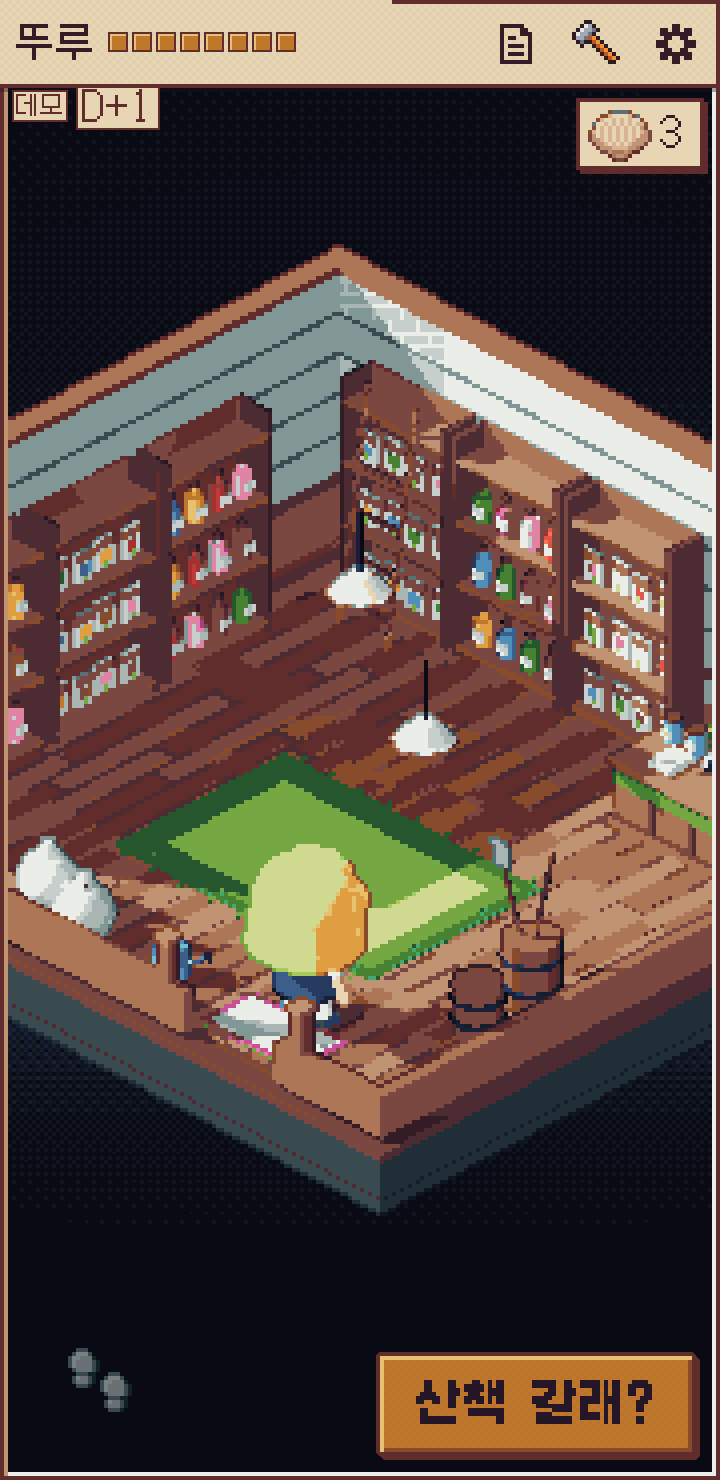
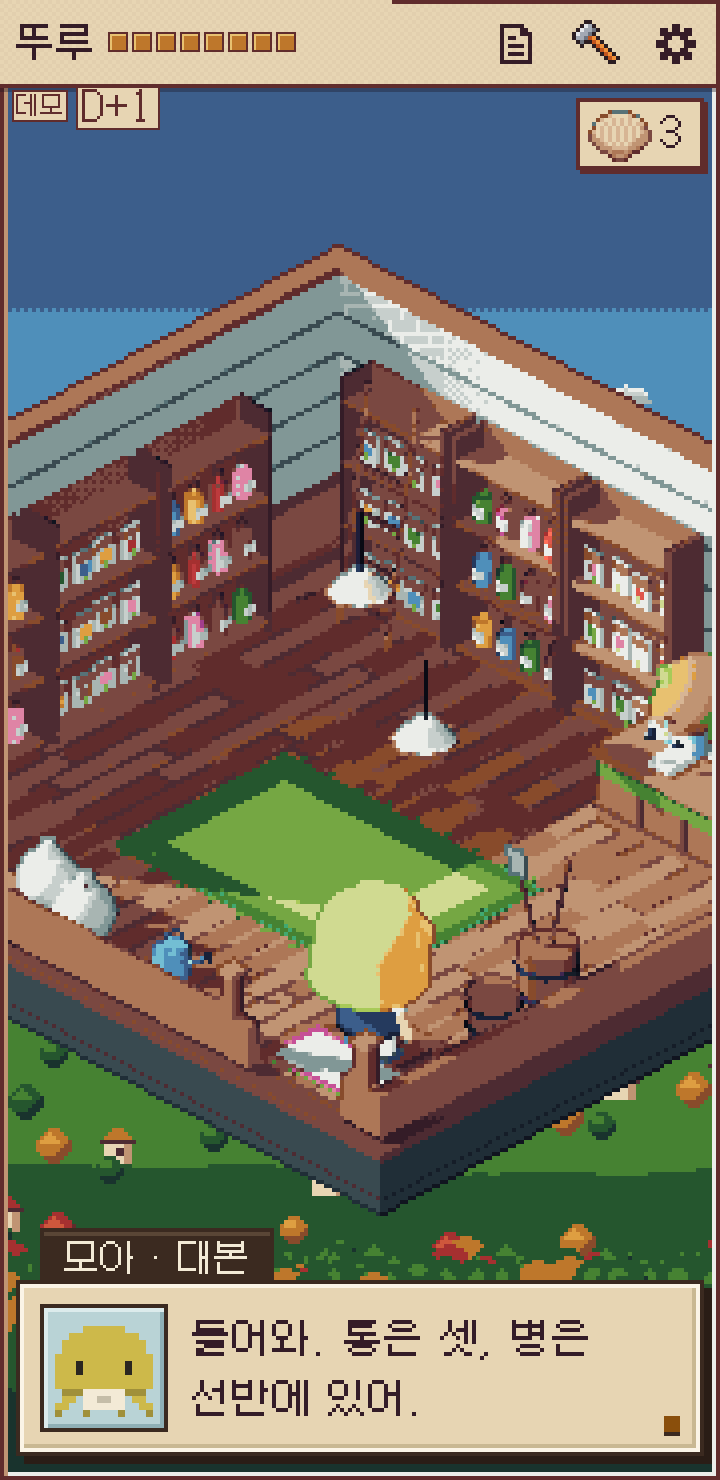
7차 V: 카페 · 잡화점 문어를 문 쪽으로 (들어서면 360 화면에 든다), 잡화점 문 · 계산대 · 통 자리 조정
Claude-Session: https://claude.ai/code/session_01Tq2y4RN5FrCBChDE4gtErh

diff --git a/js/village.js b/js/village.js
@@ -181,26 +181,26 @@ var VILLAGE = (function () {
       boxes: [[-2.95, -2.0, -1.45, -1.5], [-2.95, -0.95, -2.55, 0.35], [2.0, 0.25, 2.9, 0.95], [-1.5, 2.2, -0.1, 2.55], [-2.95, 0.6, -2.6, 1.2], [-2.95, 1.55, -1.75, 2.55]],
       circles: [[-1.2, -1.95, 0.4], [-0.15, -1.95, 0.4], [0.9, -1.95, 0.4], [1.95, -1.95, 0.4], [2.7, -2.3, 0.22], [2.7, -0.6, 0.18], [2.75, 1.4, 0.15]] },   /* … 화분 · 모자걸이 · 스탠드 등 */
     cafe: { name: '카페', half: [3.2, 2.6], wallH: 2.2, door: [0.5, 2.0], face: Math.PI, lights: [[0.9, 1.9, -0.9], [-1.2, 1.9, 0.8]],
-      slots: { keeper: [1.3, 0.3, -2.25, 0], menu: [-1.2, 1.35, -2.54, 0], pickup: [0.55, 0.58, -1.75, 0], counter: [1.3, 0.56, -1.75, 0], table: [-1.6, 0.46, 0.3, 0], seat: [-0.88, 0.3, 0.3, -HP], aisle: [-0.88, 0, 0.95, Math.PI],
+      slots: { keeper: [0.2, 0.3, -2.25, 0], menu: [-1.2, 1.35, -2.54, 0],   /* 카페 문어는 내주는 자리 바로 뒤 (문에서 화면에 든다) */ pickup: [0.55, 0.58, -1.75, 0], counter: [1.3, 0.56, -1.75, 0], table: [-1.6, 0.46, 0.3, 0], seat: [-0.88, 0.3, 0.3, -HP], aisle: [-0.88, 0, 0.95, Math.PI],
         table1: [1.9, 0.46, 0.3, 0], table2: [2.45, 0.46, 1.7, 0], nap: [2.45, 0.3, 1.05, 0], turntable: [-2.82, 0.8, 1.55, HP], lp: [-2.82, 0.45, 0.6, HP], exit: [0.5, 0, 2.45, 0] },
       spots: [
         { key: 'cafeMenu', btn: 'btn-cafe-menu', label: '차림판', x: -1.2, y: 1.35, z: -2.5, r: 0.55, stand: [-1.2, -1.4] },
         { key: 'cafeCounter', btn: 'btn-cafe-counter', label: '카페 주문', x: 0.55, y: 0.75, z: -1.75, r: 0.4, stand: [0.55, -1.05] },
         { key: 'cafeSeat', btn: 'btn-cafe-seat', label: '카페 자리', x: -0.88, y: 0.45, z: 0.3, r: 0.4, stand: [-0.88, 0.95] },
         { key: 'cafeLp', btn: 'btn-cafe-lp', label: '레코드', x: -2.82, y: 0.85, z: 1.1, r: 0.55, stand: [-2.0, 1.1] },
-        { key: 'roomKeeper', btn: 'btn-npc-cafe', label: '가게 문어', x: 1.6, y: 1.0, z: -2.25, r: 0.4, stand: [1.6, -1.05] },
+        { key: 'roomKeeper', btn: 'btn-npc-cafe', label: '가게 문어', x: 0.2, y: 1.0, z: -2.25, r: 0.4, stand: [-0.15, -1.1] },
         { key: 'roomExit', btn: 'btn-room-exit', label: '밖으로', x: 0.5, y: 0.5, z: 2.5, r: 0.5, stand: [0.5, 2.0] }],
       boxes: [[-0.2, -2.0, 3.15, -1.5], [-3.15, -0.25, -2.6, 2.2]],
       circles: [[-1.6, 0.3, 0.36], [1.9, 0.3, 0.36], [2.45, 1.7, 0.36], [-0.88, 0.3, 0.16], [-2.2, 0.3, 0.16], [1.9, -0.4, 0.16], [2.62, 0.3, 0.16], [2.45, 1.05, 0.16], [-2.85, -2.25, 0.25], [-2.85, -0.05, 0.2]] },
-    goods: { name: '잡화점', half: [2.6, 2.4], wallH: 2.2, door: [1.3, 1.8], face: Math.PI, lights: [[-0.4, 1.9, -0.4], [1.2, 1.9, 0.6]],
-      slots: { keeper: [1.75, 0.3, -2.05, 0], counter: [1.75, 0.56, -1.55, 0], scale: [2.2, 0.58, -1.55, 0], exit: [1.3, 0, 2.25, 0],
+    goods: { name: '잡화점', half: [2.6, 2.4], wallH: 2.2, door: [1.9, 1.8],   /* 문은 앞벽 오른쪽 (들어서면 계산대의 문어가 화면에 든다) */ face: Math.PI, lights: [[-0.4, 1.9, -0.4], [1.2, 1.9, 0.6]],
+      slots: { keeper: [1.2, 0.3, -2.05, 0], counter: [1.75, 0.56, -1.55, 0], scale: [2.2, 0.58, -1.55, 0], exit: [1.9, 0, 2.25, 0],
         shelf0: [-1.75, 0, -2.2, 0], shelf1: [-0.7, 0, -2.2, 0], shelf2: [0.35, 0, -2.2, 0], shelf3: [-2.4, 0, -0.95, HP], shelf4: [-2.4, 0, 0.1, HP], shelf5: [-2.4, 0, 1.15, HP] },
       spots: shelfSpots().concat([
-        { key: 'roomCounter', btn: 'btn-room-counter', label: '계산대', x: 2.2, y: 0.7, z: -1.55, r: 0.4, stand: [2.0, -0.85] },
-        { key: 'roomKeeper', btn: 'btn-npc-goods', label: '가게 문어', x: 1.5, y: 1.0, z: -2.05, r: 0.4, stand: [1.4, -0.85] },
-        { key: 'roomExit', btn: 'btn-room-exit', label: '밖으로', x: 1.3, y: 0.5, z: 2.3, r: 0.5, stand: [1.3, 1.8] }]),
-      boxes: [[1.05, -1.8, 2.55, -1.3], [-2.25, -2.35, 0.85, -1.95], [-2.55, -1.45, -2.15, 1.65]],
-      circles: [[2.2, 0.6, 0.24], [2.25, 1.15, 0.2], [-0.9, 2.0, 0.24], [-0.45, 2.1, 0.24], [0.3, 2.05, 0.15], [-2.25, 2.05, 0.2]] },   /* 통 둘 · 자루 둘 · 물뿌리개 · 화분 */
+        { key: 'roomCounter', btn: 'btn-room-counter', label: '계산대', x: 2.2, y: 0.7, z: -1.55, r: 0.4, stand: [1.6, -0.85] },
+        { key: 'roomKeeper', btn: 'btn-npc-goods', label: '가게 문어', x: 1.2, y: 1.0, z: -2.05, r: 0.4, stand: [1.0, -0.85] },
+        { key: 'roomExit', btn: 'btn-room-exit', label: '밖으로', x: 1.9, y: 0.5, z: 2.3, r: 0.5, stand: [1.9, 1.8] }]),
+      boxes: [[0.9, -1.8, 2.55, -1.3], [-2.25, -2.35, 0.85, -1.95], [-2.55, -1.45, -2.15, 1.65]],
+      circles: [[2.35, 0.6, 0.24], [2.4, 1.15, 0.2], [-0.9, 2.0, 0.24], [-0.45, 2.1, 0.24], [0.3, 2.05, 0.15], [-2.25, 2.05, 0.2]] },   /* 통 둘 · 자루 둘 · 물뿌리개 · 화분 */
     /* 공연장 (주인 11-22 00:05: "카페나 콘테스트도 아예 맵을 따로") — 뒷벽 앞의 높인 무대 (0.3 m) 와 방 안으로 뻗은 길 (캣워크), 막, 조명 둘, 길을 보는 심사석 셋, 구경 벤치 둘, 무대 뒤 구석 (옷걸이 · 거울), 벽의 결과판 */
     hall: { name: '공연장', half: [3.5, 3.0], wallH: 2.4, door: [2.6, 2.4], face: Math.PI, lights: [[0, 2.1, -1.2], [1.4, 2.1, 1.9]],   /* 둘째 등은 길 위가 아니라 문 쪽 (길 위에 선 캐릭터 머리를 가렸다) */
       stage: { x0: -2.3, x1: 2.3, z0: -3.0, z1: -1.55, y: 0.3 }, walk: { x0: -0.5, x1: 0.5, z0: -1.55, z1: 0.75, y: 0.3 }, steps: { z0: 0.75, z1: 1.2 },

diff --git a/js/scene3d.js b/js/scene3d.js
@@ -7262,7 +7262,7 @@ var SCENE3D = (function () {
             else { Yc(0.065, 0.2, a, y + 0.12, 0.02, c2); Yc(0.03, 0.06, a, y + 0.25, 0.02, c2); Yc(0.036, 0.03, a, y + 0.29, 0.02, VC.woodD); B(0.09, 0.07, 0.02, a, y + 0.11, 0.08, VC.cream); } }
         });
       }
-      vilCounter(L, 1.05, 2.55, -1.55, VC.woodL, VC.moss);
+      vilCounter(L, 0.9, 2.55, -1.55, VC.woodL, VC.moss);
       L.push({ g: box(0.5, 0.3, 0.5), m: M(S.keeper[0], 0.15, S.keeper[2]), c: VC.woodA }, { g: box(0.52, 0.04, 0.52), m: M(S.keeper[0], 0.24, S.keeper[2]), c: VC.woodD });
       /* 접시저울: 받침 · 기둥 · 가로대 · 줄과 접시 둘 (한쪽에 추, 한쪽에 씨앗 더미) · 종이 봉투 묶음 */
       var sx = S.scale[0], sz = S.scale[2];
@@ -7270,8 +7270,8 @@ var SCENE3D = (function () {
       [[-0.2, -0.016, VC.slateD], [0.2, 0.016, VC.woodA]].forEach(function (q2, n) { L.push({ g: box(0.01, 0.16, 0.01), m: M(sx + q2[0], 0.81 + q2[1], sz), c: VC.cream }, { g: new T.CylinderGeometry(0.09, 0.06, 0.03, 8), m: M(sx + q2[0], 0.72 + q2[1], sz), c: VC.yellow }, n ? { g: new T.SphereGeometry(0.05, 6, 4), m: M(sx + q2[0], 0.75 + q2[1], sz, 0, 0, 0, 1, 0.6, 1), c: q2[2] } : { g: new T.CylinderGeometry(0.03, 0.04, 0.06, 6), m: M(sx + q2[0], 0.765 + q2[1], sz), c: q2[2] }); });
       for (i = 0; i < 4; i++) L.push({ g: box(0.2, 0.012, 0.26), m: M(1.4, 0.55 + i * 0.012, -1.5), c: i % 2 ? VC.paper : VC.cream });
       /* 통 둘 (테 두른 나무통 · 하나엔 삽 자루) · 자루 둘 (입을 묶은 포대) · 물뿌리개 */
-      [[2.2, 0.6], [2.25, 1.15]].forEach(function (b, n) { L.push({ g: new T.CylinderGeometry(0.22 - n * 0.03, 0.19 - n * 0.03, 0.5 - n * 0.08, 9), m: M(b[0], 0.25 - n * 0.04, b[1]), c: n ? VC.woodA : VC.woodB }, { g: new T.CylinderGeometry(0.225 - n * 0.03, 0.225 - n * 0.03, 0.04, 9), m: M(b[0], 0.14, b[1]), c: VC.iron }, { g: new T.CylinderGeometry(0.225 - n * 0.03, 0.225 - n * 0.03, 0.04, 9), m: M(b[0], 0.36 - n * 0.06, b[1]), c: VC.iron }); });
-      seg(L, [2.2, 0.4, 0.6], [2.32, 1.15, 0.52], 0.02, VC.woodL, 5); seg(L, [2.16, 0.4, 0.64], [2.05, 1.05, 0.72], 0.02, VC.woodL, 5); L.push({ g: box(0.16, 0.2, 0.03), m: M(2.04, 1.12, 0.73, 0, 0, 0.16), c: VC.slateA });
+      [[2.35, 0.6], [2.4, 1.15]].forEach(function (b, n) { L.push({ g: new T.CylinderGeometry(0.22 - n * 0.03, 0.19 - n * 0.03, 0.5 - n * 0.08, 9), m: M(b[0], 0.25 - n * 0.04, b[1]), c: n ? VC.woodA : VC.woodB }, { g: new T.CylinderGeometry(0.225 - n * 0.03, 0.225 - n * 0.03, 0.04, 9), m: M(b[0], 0.14, b[1]), c: VC.iron }, { g: new T.CylinderGeometry(0.225 - n * 0.03, 0.225 - n * 0.03, 0.04, 9), m: M(b[0], 0.36 - n * 0.06, b[1]), c: VC.iron }); });
+      seg(L, [2.35, 0.4, 0.6], [2.47, 1.15, 0.52], 0.02, VC.woodL, 5); seg(L, [2.31, 0.4, 0.64], [2.2, 1.05, 0.72], 0.02, VC.woodL, 5); L.push({ g: box(0.16, 0.2, 0.03), m: M(2.19, 1.12, 0.73, 0, 0, 0.16), c: VC.slateA });
       [[-0.9, 2.0, VC.paper], [-0.45, 2.1, VC.wallA]].forEach(function (b) { L.push({ g: new T.SphereGeometry(0.24, 8, 6), m: M(b[0], 0.2, b[1], 0, 0, 0, 1, 0.9, 0.85), c: b[2] }, { g: new T.CylinderGeometry(0.05, 0.1, 0.12, 6), m: M(b[0], 0.44, b[1]), c: b[2] }, { g: new T.TorusGeometry(0.06, 0.015, 4, 8), m: M(b[0], 0.42, b[1], Math.PI / 2, 0, 0), c: VC.woodD }); });
       L.push({ g: new T.CylinderGeometry(0.12, 0.13, 0.22, 8), m: M(0.3, 0.11, 2.05), c: VC.blueL }, { g: new T.TorusGeometry(0.09, 0.015, 4, 8, Math.PI), m: M(0.3, 0.24, 2.05, 0, Math.PI / 2, 0), c: VC.blueL }); seg(L, [0.42, 0.12, 2.05], [0.62, 0.26, 2.05], 0.02, VC.blueL, 5); L.push({ g: new T.CylinderGeometry(0.045, 0.02, 0.04, 6), m: M(0.63, 0.27, 2.05, 0, 0, -0.9), c: VC.blueD });
       /* 뒷벽 오른쪽 위: 걸린 연장 (모종삽 · 갈퀴 · 가위) 과 작은 선반의 화분 */
